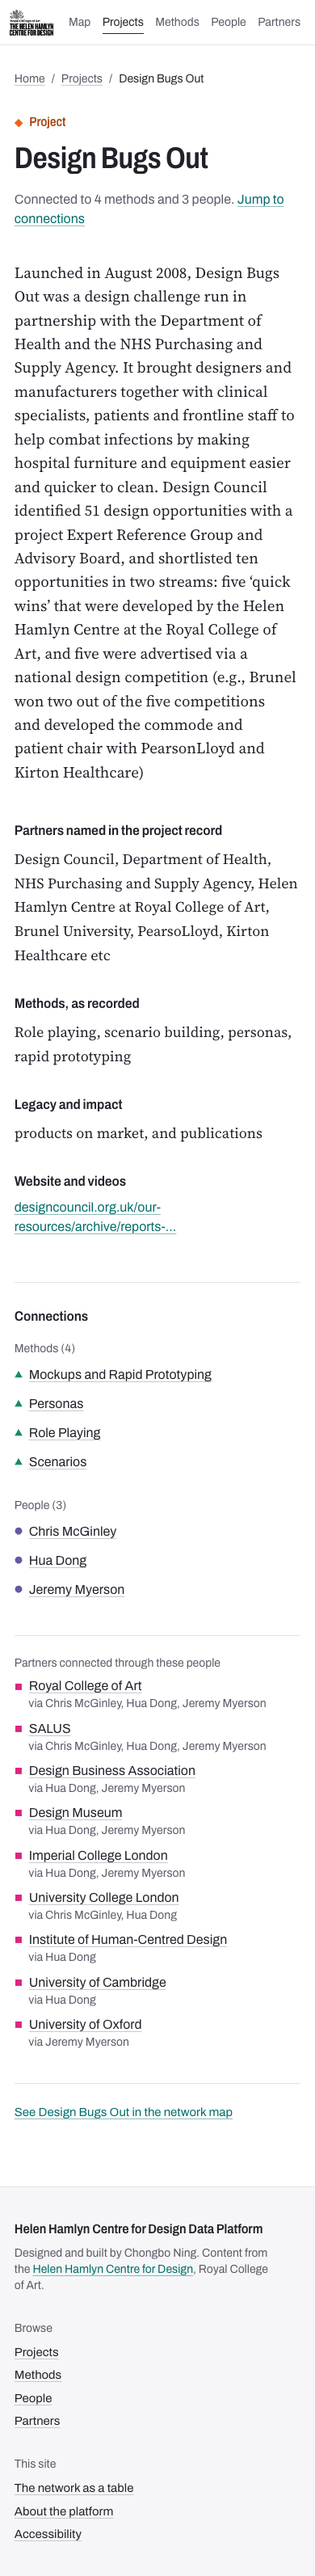
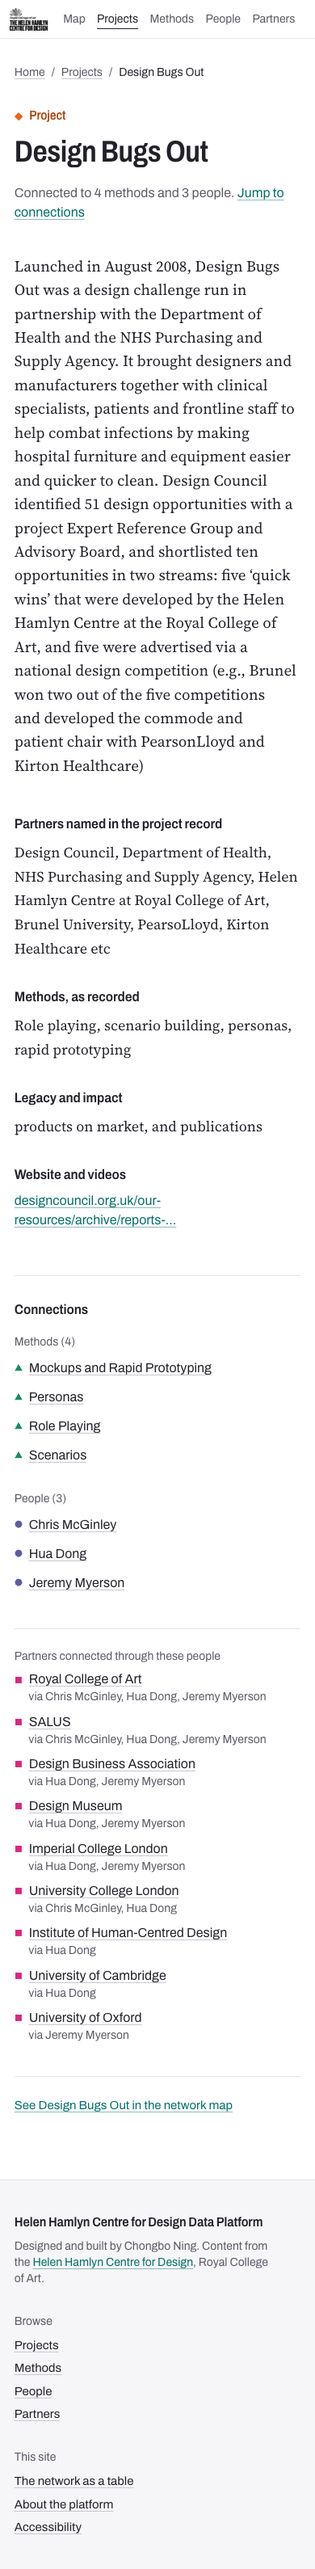
More breathing room in the constellation; tighter header and toolbar
- Wider frame and larger spacing between names
- Columns keep their natural height; switching arrangement zooms to frame it
- Header 48/56px, toolbar controls 36px

Claude-Session: https://claude.ai/code/session_014KayvLjfZAn1qfA8mMiKjx

diff --git a/src/lib/layout.ts b/src/lib/layout.ts
@@ -20,7 +20,9 @@ import { forceLink, forceManyBody, forceSimulation, forceX, forceY, forceCollide
 import type { SimulationLinkDatum, SimulationNodeDatum } from 'd3-force';
 import type { GraphData, NodeType } from './types';
 
-export const LAYOUT_WIDTH = 1600;
+export const LAYOUT_WIDTH = 2000;
+/** The columns use the middle of the frame; the constellation spreads across all of it. */
+const COLUMNS_SPAN = 1600;
 export const COLUMN_ORDER: NodeType[] = ['Partners', 'People', 'Projects', 'Methods'];
 /** Column positions as fractions of the map width. */
 export const COLUMN_X = [0.01, 0.27, 0.53, 0.78];
@@ -85,6 +87,9 @@ export interface Layout {
   height: number;
   /** Column headings, used by the columns arrangement. */
   columns: { type: NodeType; x: number }[];
+  /** Where the column headings sit, and the area the columns arrangement occupies (to zoom to it). */
+  columnsTop: number;
+  columnsBounds: { x0: number; y0: number; x1: number; y1: number };
   positions: Record<Arrangement, Record<string, Position>>;
 }
 
@@ -109,22 +114,29 @@ export function computeLayout(data: GraphData): Layout {
   const constellation = computeConstellation(
     data,
     LAYOUT_WIDTH,
-    Math.max(perColumn * 38 + 140, Math.round(Math.sqrt(data.nodes.length) * 128)),
+    Math.max(perColumn * 38 + 140, Math.round(Math.sqrt(data.nodes.length) * 175)),
   );
   const height = constellation.height;
+  // The columns keep their own natural height, centred in the shared frame.
+  const colHeight = Math.min(height, perColumn * 38 + 140);
+  const colTop = Math.round((height - colHeight) / 2);
   return {
     width: LAYOUT_WIDTH,
     height,
     columns: COLUMN_ORDER.map((type) => ({ type, x: columnX(type) })),
+    columnsTop: colTop + 46,
+    columnsBounds: { x0: (LAYOUT_WIDTH - COLUMNS_SPAN) / 2, y0: colTop, x1: (LAYOUT_WIDTH + COLUMNS_SPAN) / 2, y1: colTop + colHeight },
     positions: {
       constellation: constellation.positions,
-      columns: computeColumns(data, height),
+      columns: Object.fromEntries(
+        Object.entries(computeColumns(data, colHeight)).map(([id, p]) => [id, { x: p.x, y: p.y + colTop }]),
+      ),
     },
   };
 }
 
 function columnX(t: NodeType): number {
-  return COLUMN_X[COLUMN_ORDER.indexOf(t)] * LAYOUT_WIDTH + NODE_RADIUS + 12;
+  return (LAYOUT_WIDTH - COLUMNS_SPAN) / 2 + COLUMN_X[COLUMN_ORDER.indexOf(t)] * COLUMNS_SPAN + NODE_RADIUS + 12;
 }
 
 /**
@@ -152,8 +164,8 @@ function computeConstellation(data: GraphData, width: number, height: number): {
   });
   const links: SimulationLinkDatum<SimNode>[] = data.links.map((l) => ({ source: l.source, target: l.target }));
 
-  const PAD_X = 26;
-  const PAD_Y = 18;
+  const PAD_X = 56;
+  const PAD_Y = 40;
   const boxCollide = (strength = 0.7) => {
     for (let i = 0; i < nodes.length; i++) {
       for (let j = i + 1; j < nodes.length; j++) {
@@ -194,13 +206,13 @@ function computeConstellation(data: GraphData, width: number, height: number): {
       'link',
       forceLink<SimNode, SimulationLinkDatum<SimNode>>(links)
         .id((d) => d.id)
-        .distance(150)
+        .distance(210)
         .strength(0.22),
     )
-    .force('charge', forceManyBody<SimNode>().strength(-420).distanceMax(520))
+    .force('charge', forceManyBody<SimNode>().strength(-900).distanceMax(800))
     .force('x', forceX<SimNode>(width / 2).strength(0.012))
     .force('y', forceY<SimNode>(height / 2).strength(0.07))
-    .force('collide', forceCollide<SimNode>(R + 34))
+    .force('collide', forceCollide<SimNode>(R + 60))
     .stop();
 
   for (let i = 0; i < 500; i++) {

diff --git a/src/components/explore/NetworkExplorer.tsx b/src/components/explore/NetworkExplorer.tsx
@@ -270,9 +270,9 @@ export function NetworkExplorer({ data, layout: givenLayout }: { data: GraphData
       <noscript>
         <style>{'.js-only{display:none!important}'}</style>
       </noscript>
-      <div className="flex h-[calc(100dvh-3.5rem)] min-h-[28rem] flex-col md:h-[calc(100dvh-4rem)] md:min-h-[32rem]">
+      <div className="flex h-[calc(100dvh-3rem)] min-h-[28rem] flex-col md:h-[calc(100dvh-3.5rem)] md:min-h-[32rem]">
         <div className="border-b border-rule bg-paper">
-          <div className="flex items-center gap-2 px-3 py-2 md:gap-4 md:px-6">
+          <div className="flex items-center gap-2 px-3 py-1.5 md:gap-4 md:px-6">
             <h1 className="sr-only">Projects, methods, people and partners of the Helen Hamlyn Centre for Design</h1>
             <search className="js-only relative min-w-0 flex-1 md:max-w-md">
               <label htmlFor="network-search" className="sr-only">
@@ -297,7 +297,7 @@ export function NetworkExplorer({ data, layout: givenLayout }: { data: GraphData
                 }}
                 placeholder={wide ? 'Search the network' : 'Search'}
                 aria-describedby="search-status search-hint"
-                className="h-10 w-full rounded-full border-0 bg-surface pl-11 pr-11 text-base text-ink ring-1 ring-control transition-shadow placeholder:text-ink-muted hover:ring-ink focus:bg-paper focus:outline-none focus-visible:ring-2 focus-visible:ring-accent sm:pr-20 [&::-webkit-search-cancel-button]:hidden"
+                className="h-9 w-full rounded-full text-[0.9375rem] border-0 bg-surface pl-11 pr-11 text-base text-ink ring-1 ring-control transition-shadow placeholder:text-ink-muted hover:ring-ink focus:bg-paper focus:outline-none focus-visible:ring-2 focus-visible:ring-accent sm:pr-20 [&::-webkit-search-cancel-button]:hidden"
               />
               <span id="search-hint" className="sr-only">
                 Shortcut: {mod} K.
@@ -350,7 +350,7 @@ export function NetworkExplorer({ data, layout: givenLayout }: { data: GraphData
                           e.preventDefault();
                           switchView(v);
                         }}
-                        className="inline-flex min-h-9 items-center rounded-full px-3.5 text-[0.9375rem] font-medium text-ink-muted no-underline transition-colors hover:text-ink aria-[current]:bg-paper aria-[current]:text-ink aria-[current]:shadow-[0_1px_2px_rgb(34_33_42/0.12)] aria-[current]:ring-1 aria-[current]:ring-rule-strong"
+                        className="inline-flex min-h-8 items-center rounded-full px-3.5 text-[0.9375rem] font-medium text-ink-muted no-underline transition-colors hover:text-ink aria-[current]:bg-paper aria-[current]:text-ink aria-[current]:shadow-[0_1px_2px_rgb(34_33_42/0.12)] aria-[current]:ring-1 aria-[current]:ring-rule-strong"
                       >
                         {v === 'map' ? 'Map' : 'Table'}
                       </Link>

diff --git a/src/components/explore/GraphView.tsx b/src/components/explore/GraphView.tsx
@@ -258,6 +258,35 @@ export function GraphView() {
   }, [mounted, fitTransform, openingTransform]);
 
   const duration = reducedMotion ? 0 : 320;
+
+  // Switching arrangement also frames it: the columns are zoomed to fit,
+  // the constellation goes back to its readable opening view.
+  const firstArrangement = useRef(true);
+  useEffect(() => {
+    if (firstArrangement.current) {
+      firstArrangement.current = false;
+      return;
+    }
+    const svg = svgRef.current;
+    if (!svg || !zoomRef.current || !size) return;
+    let target: ZoomTransform;
+    if (arrangement === 'columns') {
+      const b = layout.columnsBounds;
+      const top = 52;
+      const k = Math.min(size.w / (b.x1 - b.x0 + 80), (size.h - top - 56) / (b.y1 - b.y0)) * 0.98;
+      target = zoomIdentity
+        .translate(size.w / 2 - ((b.x0 + b.x1) / 2) * k, top + (size.h - top - 56) / 2 - ((b.y0 + b.y1) / 2) * k)
+        .scale(k);
+    } else {
+      target = openingTransform(size.w, size.h);
+    }
+    select(svg)
+      .transition()
+      .duration(reducedMotion ? 0 : MOVE_MS + TYPE_DELAY * 3)
+      .call(zoomRef.current.transform, target);
+    // Only when the arrangement changes.
+    // eslint-disable-next-line react-hooks/exhaustive-deps
+  }, [arrangement]);
   const zoomBy = (factor: number) => {
     const svg = svgRef.current;
     movedByUserRef.current = true;
@@ -406,7 +435,7 @@ export function GraphView() {
           layout.columns
             .filter((c) => visibleTypes[c.type])
             .map((c) => (
-              <text key={c.type} x={c.x - 6} y={46} className="fill-ink-muted" style={{ font: '600 14px var(--font-display)' }}>
+              <text key={c.type} x={c.x - 6} y={layout.columnsTop} className="fill-ink-muted" style={{ font: '600 14px var(--font-display)' }}>
                 {TYPE_META[c.type].plural} ({counts[c.type]})
               </text>
             ))}

diff --git a/src/components/SiteHeader.tsx b/src/components/SiteHeader.tsx
@@ -9,11 +9,11 @@ import { NavLinks } from './NavLinks';
  */
 export function SiteHeader() {
   return (
-    <header className="h-14 border-b border-rule bg-paper md:h-16">
+    <header className="h-12 border-b border-rule bg-paper md:h-14">
       <div className="flex h-full items-center gap-3 px-3 md:gap-8 md:px-6">
         <Link href="/" className="group flex flex-none items-center gap-3 text-ink no-underline">
-          <Image src="/hhcd-logo.png" alt="" width={854} height={509} priority className="h-8 w-auto flex-none md:h-9" />
-          <span className="heading text-[0.9375rem] leading-tight max-lg:sr-only">
+          <Image src="/hhcd-logo.png" alt="" width={854} height={509} priority className="h-7 w-auto flex-none md:h-8" />
+          <span className="heading text-[0.875rem] leading-tight max-lg:sr-only">
             <span className="block">Helen Hamlyn Centre for Design</span>
             <span className="block text-ink-muted">Data Platform</span>
           </span>

diff --git a/src/components/NavLinks.tsx b/src/components/NavLinks.tsx
@@ -33,7 +33,7 @@ export function NavLinks() {
               <Link
                 href={href}
                 aria-current={current}
-                className="relative inline-flex min-h-11 items-center px-[0.45rem] text-ink-muted sm:px-2 no-underline transition-colors hover:text-ink aria-[current]:text-ink aria-[current]:after:absolute aria-[current]:after:inset-x-[0.45rem] sm:aria-[current]:after:inset-x-2 aria-[current]:after:bottom-2 aria-[current]:after:h-px aria-[current]:after:bg-ink"
+                className="relative inline-flex min-h-10 items-center px-[0.45rem] text-ink-muted sm:px-2 no-underline transition-colors hover:text-ink aria-[current]:text-ink aria-[current]:after:absolute aria-[current]:after:inset-x-[0.45rem] sm:aria-[current]:after:inset-x-2 aria-[current]:after:bottom-2 aria-[current]:after:h-px aria-[current]:after:bg-ink"
               >
                 {label}
               </Link>

diff --git a/src/components/explore/TypeFilters.tsx b/src/components/explore/TypeFilters.tsx
@@ -24,7 +24,7 @@ export function TypeFilters({ variant }: { variant: 'menu' | 'row' }) {
       <ul className={variant === 'menu' ? 'space-y-0.5' : 'flex flex-nowrap gap-x-0.5'}>
         {BROWSE_ORDER.map((t) => (
           <li key={t}>
-            <label className="group relative flex min-h-10 cursor-pointer select-none items-center gap-2.5 rounded-md px-2 text-[0.9375rem] text-ink ring-accent transition-colors hover:bg-surface has-[:focus-visible]:ring-2">
+            <label className="group relative flex min-h-9 cursor-pointer select-none items-center gap-2.5 rounded-md px-2 text-[0.9375rem] text-ink ring-accent transition-colors hover:bg-surface has-[:focus-visible]:ring-2">
               <input
                 type="checkbox"
                 checked={visibleTypes[t]}
